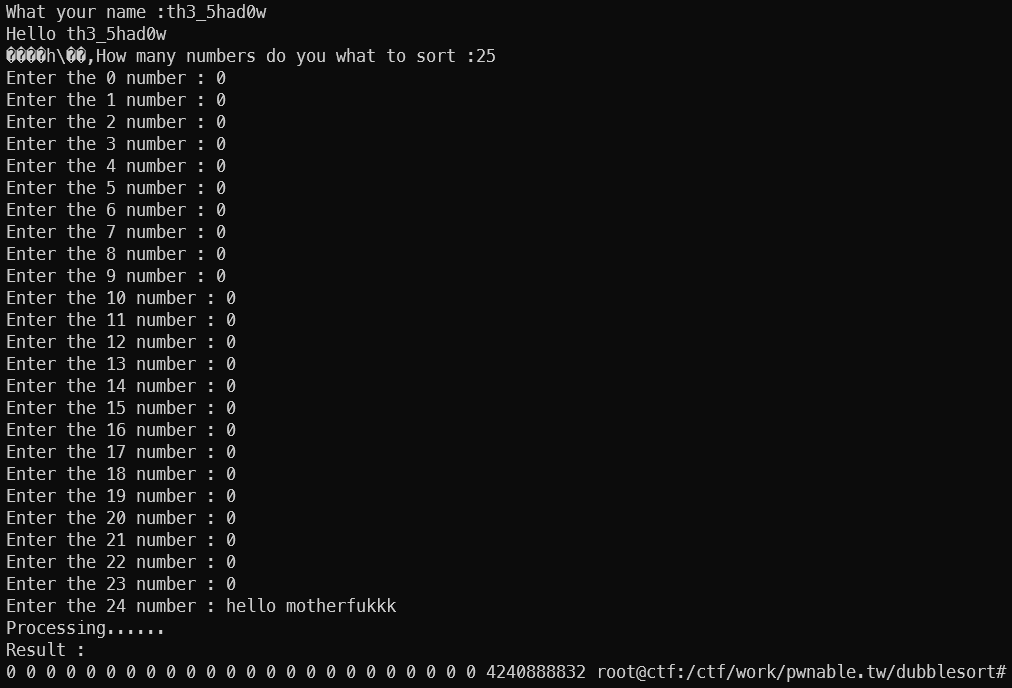
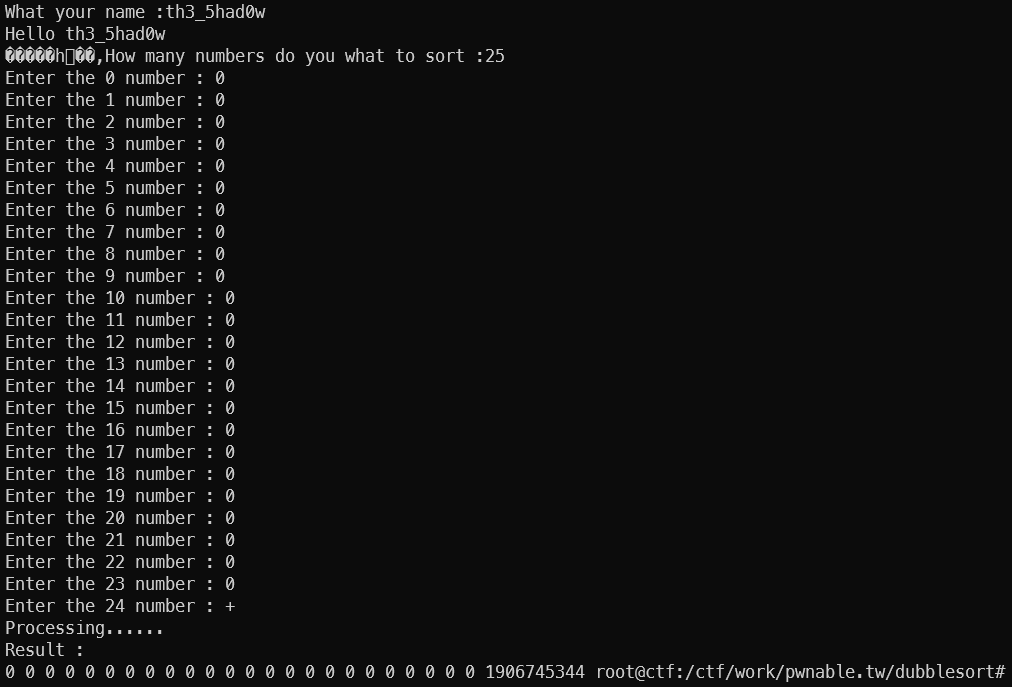
update

diff --git a/dubblesort[pwnable.tw]/dubblesort.md b/dubblesort[pwnable.tw]/dubblesort.md
@@ -49,7 +49,7 @@
 
 ![pic5](https://github.com/th3-5had0w/writeups/blob/main/dubblesort%5Bpwnable.tw%5D/res/pic_5.png)
 
-#### Vì chương trình đọc input các số vào bằng hàm `scanf` nên ta có thể bypass dễ dàng bằng cách nhập một kí tự không phải là số vào ô dữ liệu nơi chứa `Stack Canary`, cụ thể ở đây là ở số thứ 25.
+#### Chương trình đọc input các số vào bằng hàm `scanf` nên ta có thể bypass dễ dàng bằng cách nhập các kí tự như `-, +,...` vào ô dữ liệu nơi chứa `Stack Canary`, cụ thể ở đây là ở số thứ 25.
 
 ![pic6](https://github.com/th3-5had0w/writeups/blob/main/dubblesort%5Bpwnable.tw%5D/res/pic_5.png)
 
